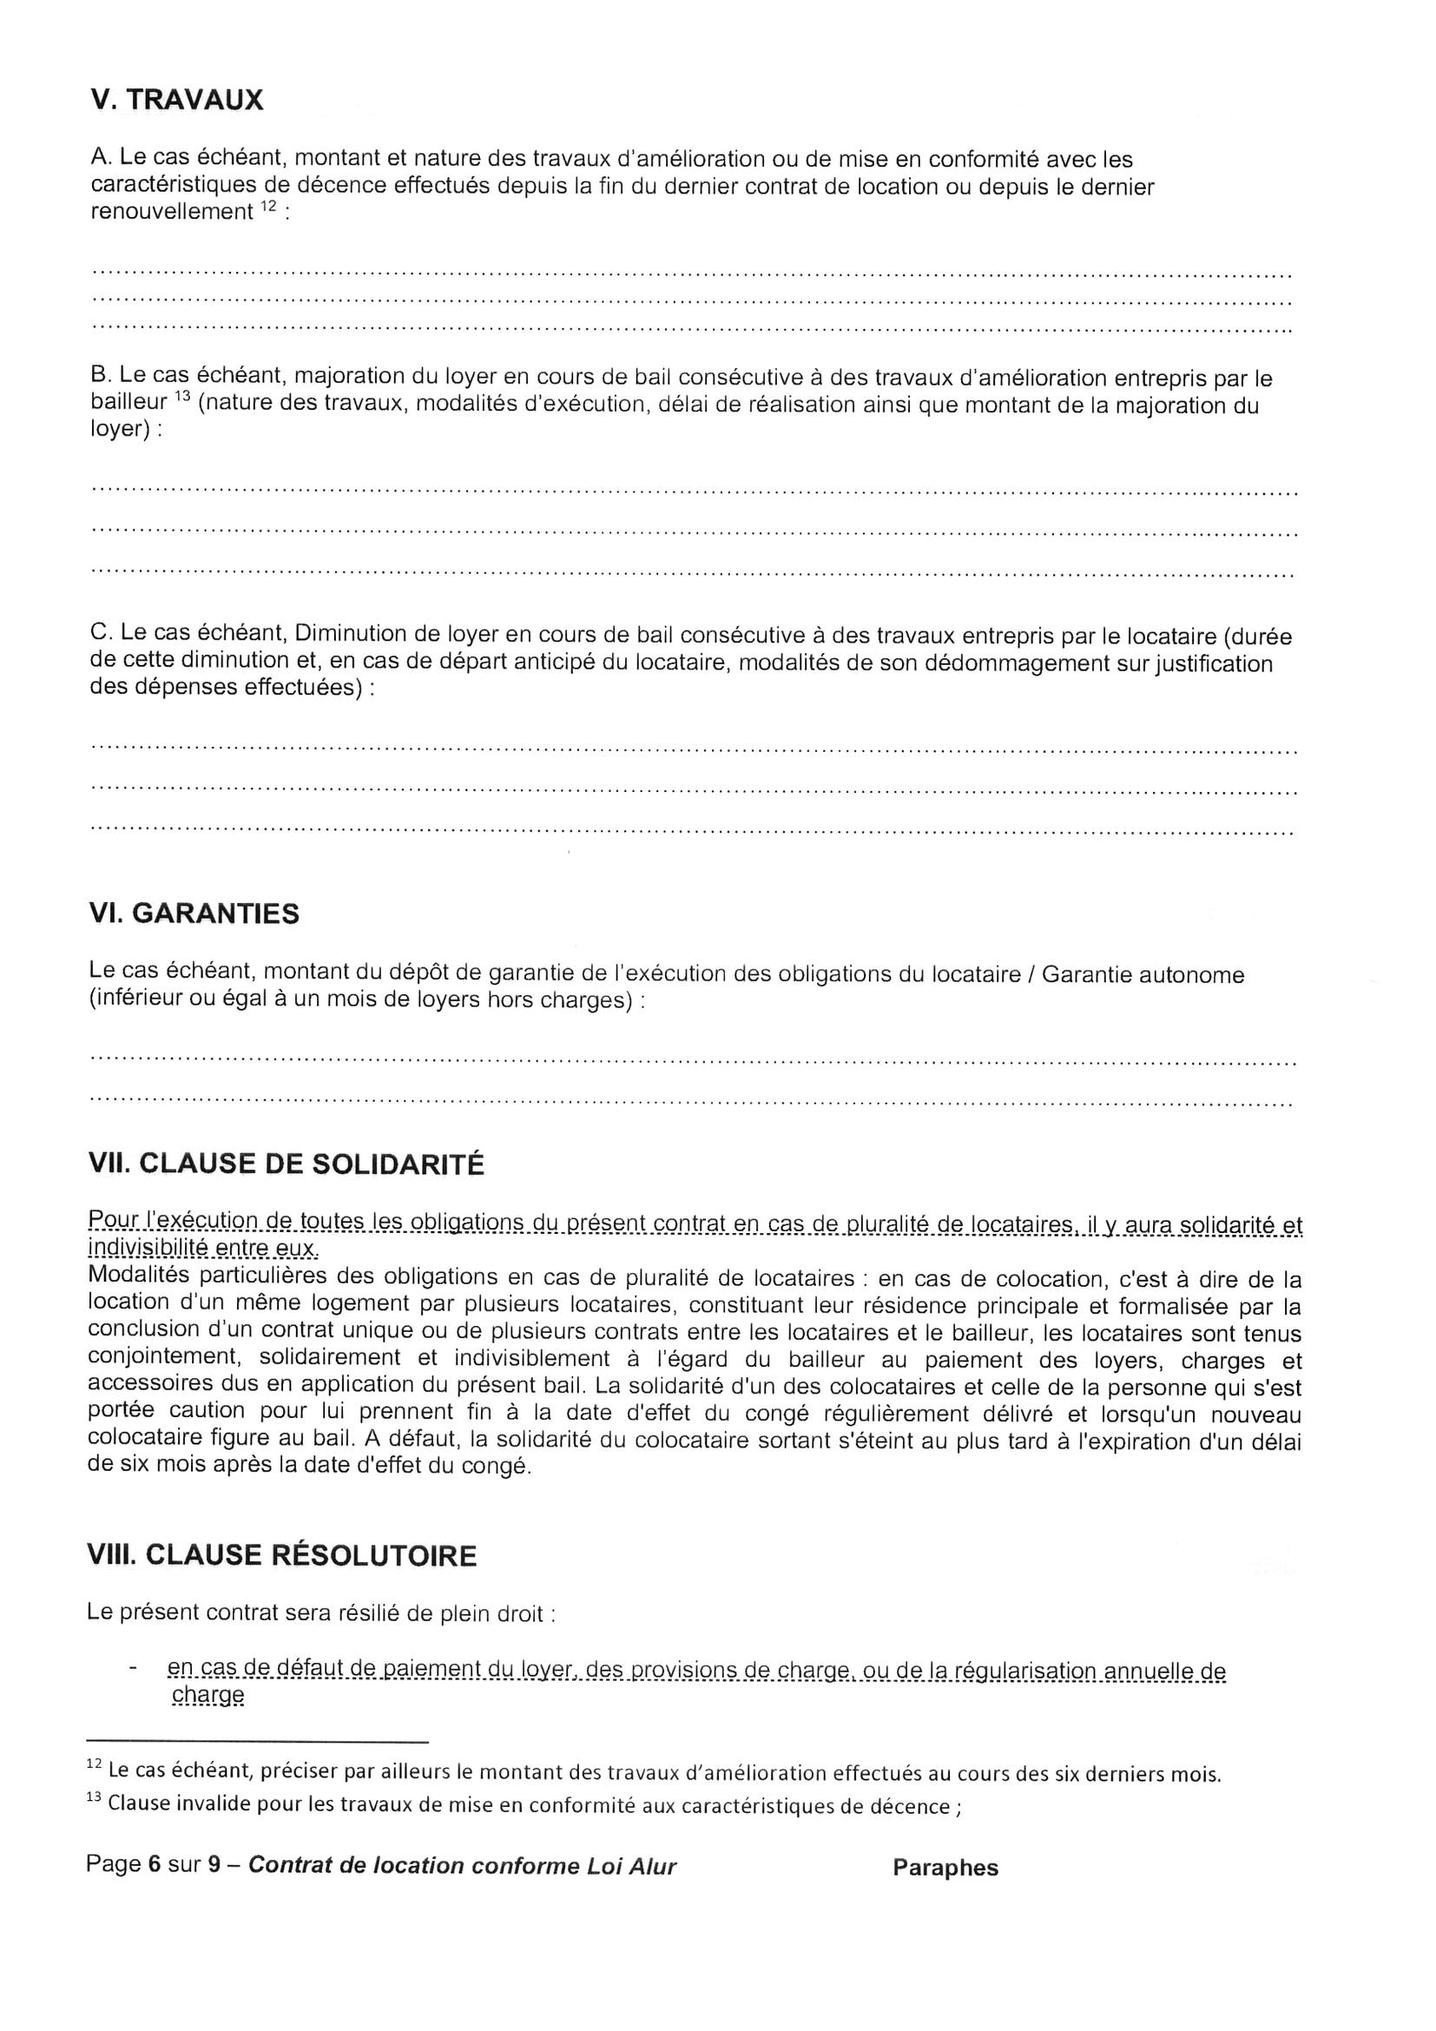
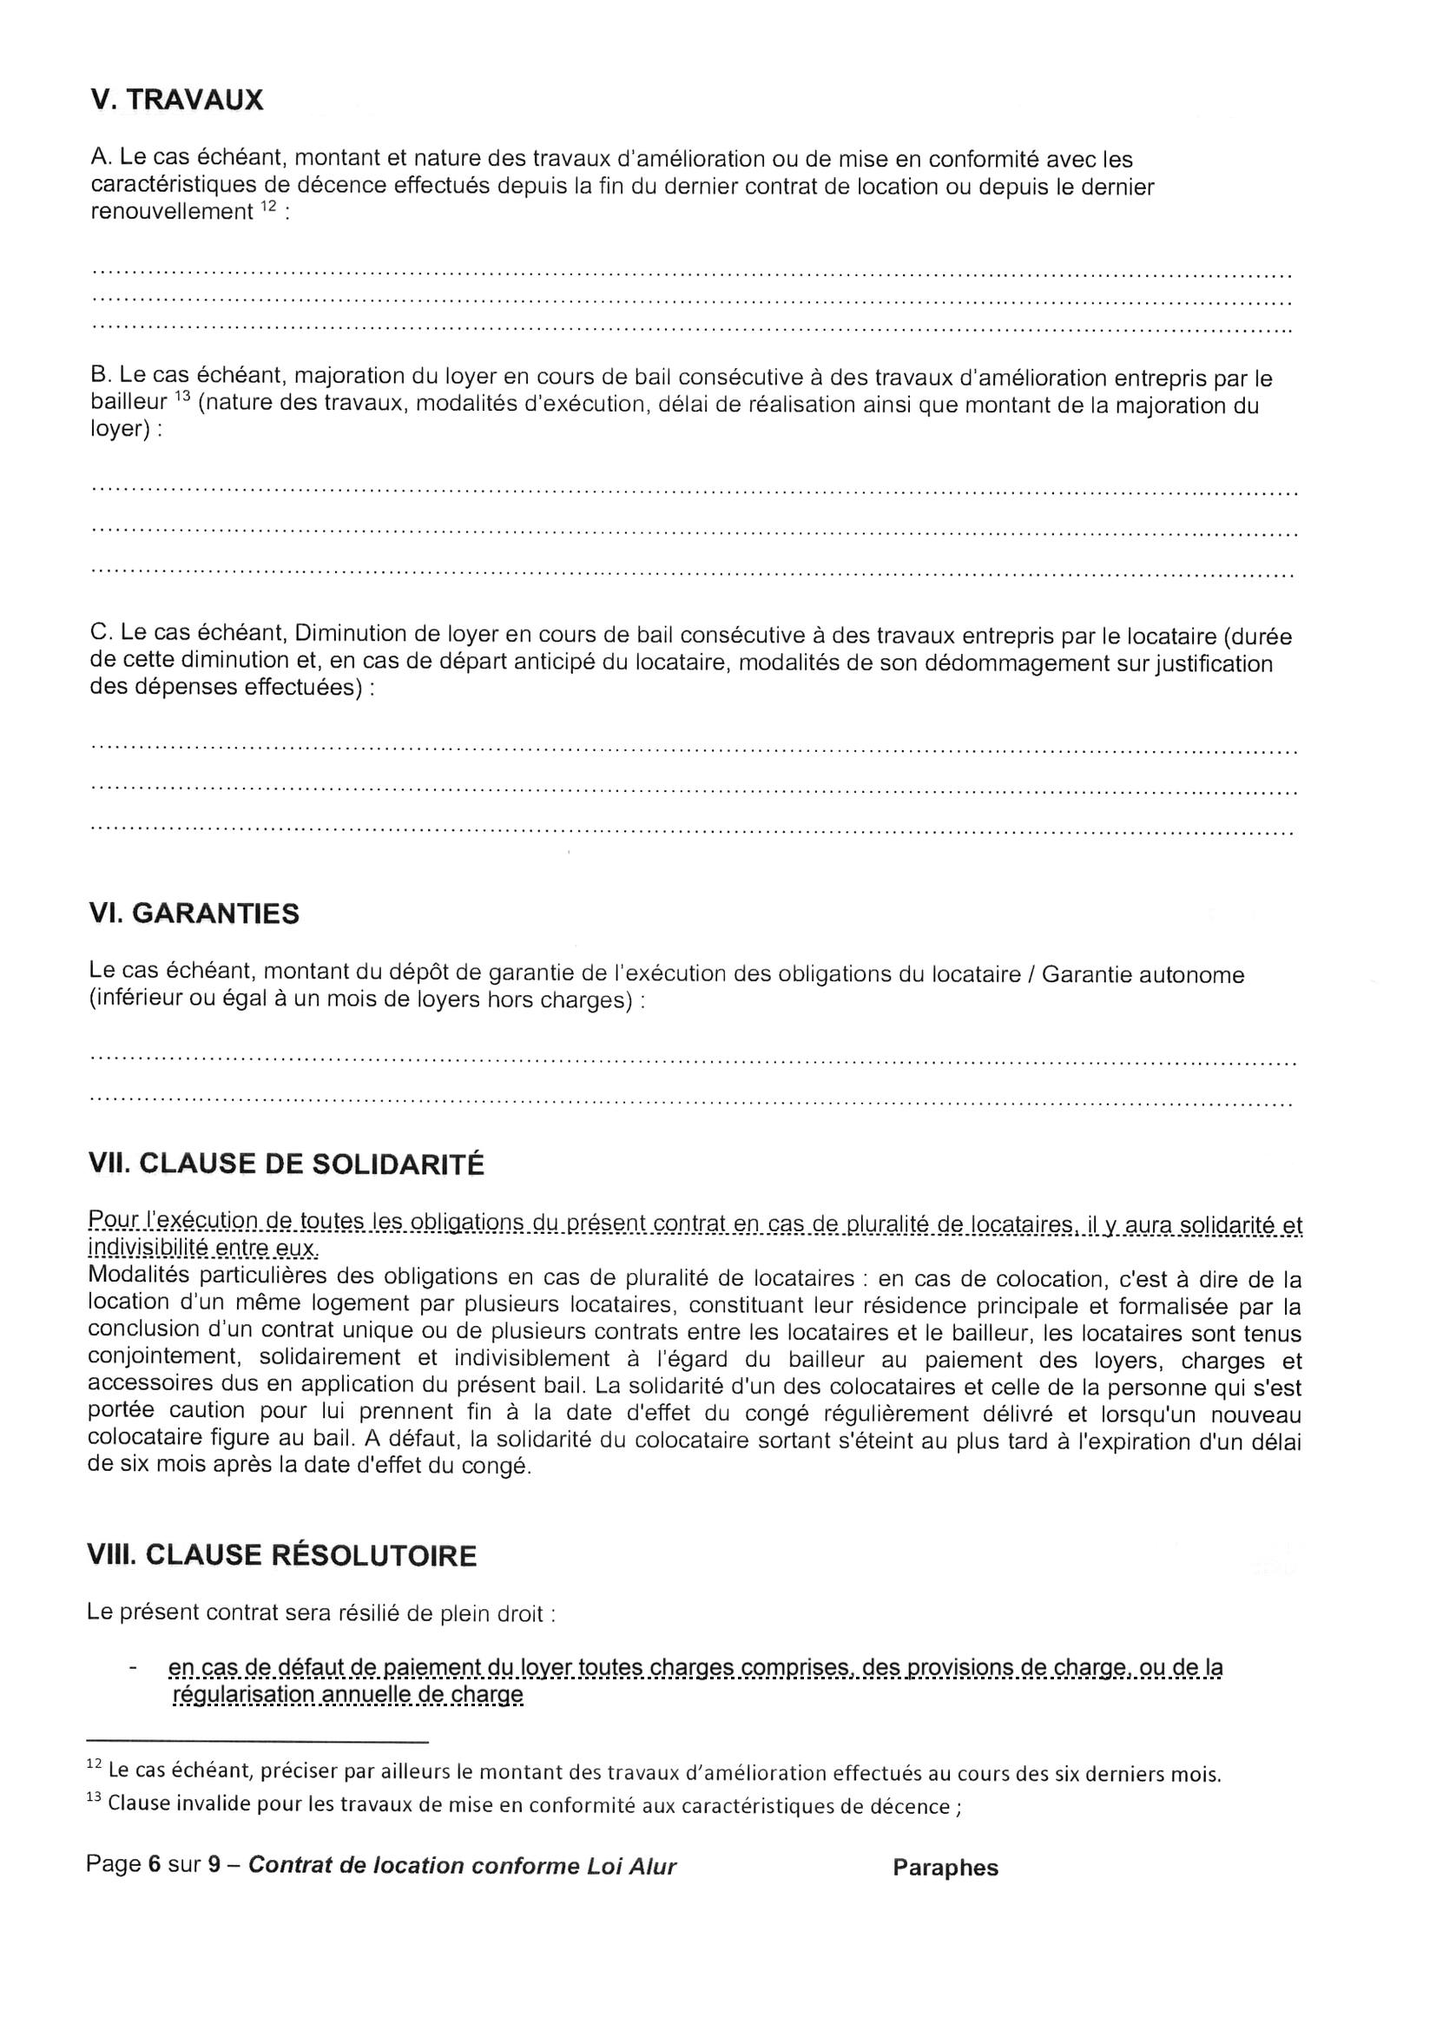
Bloc locataire réécrit, charges sans case cochée, clause résolutoire précisée

Changed region(s): [[0.1233, 0.8115, 0.8634, 0.8427]]

diff --git a/js/app.js b/js/app.js
@@ -94,12 +94,37 @@ function erreur(champ, texte) {
   return null;
 }
 
+/** « 12/03/2001 », « 12 03 2001 » ou « 12032001 » → « 12/03/2001 » ; null si la date n'existe pas ou est à venir. */
+function lireDateNaissance(s) {
+  const m = s.match(/^(\d{1,2})\D+(\d{1,2})\D+(\d{4})$/) || s.match(/^(\d{2})(\d{2})(\d{4})$/);
+  if (!m) return null;
+  const [j, mois, a] = [Number(m[1]), Number(m[2]), Number(m[3])];
+  const d = new Date(a, mois - 1, j);
+  if (d.getDate() !== j || d.getMonth() !== mois - 1 || a < 1900 || d > new Date()) return null;
+  return `${String(j).padStart(2, "0")}/${String(mois).padStart(2, "0")}/${a}`;
+}
+
+/** Un numéro français est présenté par paires ; un numéro étranger reste tel que saisi. */
+function lireTelephone(s) {
+  const chiffres = s.replace(/\D/g, "");
+  if (!/^[+0-9 .()-]+$/.test(s) || chiffres.length < 8 || chiffres.length > 15) return null;
+  return /^0\d{9}$/.test(chiffres) && !s.startsWith("+") ? chiffres.replace(/(\d{2})(?=\d)/g, "$1 ") : s;
+}
+
 function lireFormulaire() {
   document.querySelectorAll(".invalide").forEach((e) => e.classList.remove("invalide"));
   const v = (id) => $(id).value.trim();
   if (!v("c-prenom")) return erreur($("c-prenom"), "Il manque le prénom du locataire.");
   if (!v("c-nom")) return erreur($("c-nom"), "Il manque le nom du locataire.");
-  if (v("c-email") && !/^\S+@\S+\.\S+$/.test(v("c-email"))) return erreur($("c-email"), "L'adresse e-mail semble incomplète. Corrigez-la ou laissez la case vide.");
+  if (!v("c-naissance")) return erreur($("c-naissance"), "Il manque la date de naissance du locataire.");
+  const dateNaissance = lireDateNaissance(v("c-naissance"));
+  if (!dateNaissance) return erreur($("c-naissance"), "La date de naissance n'est pas lisible. Exemple : 12/03/2001");
+  if (!v("c-lieu")) return erreur($("c-lieu"), "Il manque le lieu de naissance du locataire.");
+  if (!v("c-tel")) return erreur($("c-tel"), "Il manque le téléphone du locataire.");
+  const telephone = lireTelephone(v("c-tel"));
+  if (!telephone) return erreur($("c-tel"), "Le téléphone n'est pas lisible. Exemple : 06 12 34 56 78");
+  if (!v("c-email")) return erreur($("c-email"), "Il manque l'e-mail du locataire.");
+  if (!/^\S+@\S+\.\S+$/.test(v("c-email"))) return erreur($("c-email"), "L'adresse e-mail semble incomplète. Vérifiez-la.");
   if (garantOui() && !v("c-garant-nom")) return erreur($("c-garant-nom"), "Il manque le nom du garant.");
   if (garantOui() && !v("c-garant-adresse")) return erreur($("c-garant-adresse"), "Il manque l'adresse du garant (numéro et rue).");
   if (garantOui() && !v("c-garant-cp")) return erreur($("c-garant-cp"), "Il manque le code postal du garant.");
@@ -115,6 +140,9 @@ function lireFormulaire() {
     logement: LOGEMENTS[code],
     prenom: v("c-prenom"),
     nom: v("c-nom"),
+    dateNaissance,
+    lieuNaissance: v("c-lieu"),
+    telephone,
     email: v("c-email"),
     garantNom: garantOui() ? v("c-garant-nom") : "",
     garantAdresse: garantOui() ? `${v("c-garant-adresse")}, ${v("c-garant-cp")} ${v("c-garant-ville")}` : "",

diff --git a/js/pdf.js b/js/pdf.js
@@ -1,7 +1,7 @@
 // Fabrique le bail (9 pages A4) : l'image de chaque page vierge + le texte et les croix.
 // Tout est synchrone une fois les images chargées : indispensable pour le menu Partager d'iOS.
 import { BAILLEUR, CLAUSES } from "./config.js";
-import { CASES, CASES_COMMUNES, EFFACER, LIGNES, PARAPHE, PARAPHES, SIGNATURE, TRAITS } from "./gabarit.js";
+import { CASES, CASES_COMMUNES, EFFACER, LIGNES, LOCATAIRE, PARAPHE, PARAPHES, SIGNATURE, TRAITS } from "./gabarit.js";
 import { montantEnLettres } from "./montant.js";
 
 export const NB_PAGES = 9;
@@ -9,6 +9,7 @@ const MM_PAR_PX = 210 / 1654;
 const mm = (px) => px * MM_PAR_PX;
 const ENCRE = [0, 0, 0];
 const TAILLE = 11, TAILLE_MIN = 6.5;
+const TAILLE_IMPRIME = 9.75; // taille du texte imprimé sur le modèle
 
 export const URL_SIGNATURE = "assets/signature.png";
 export const URL_PARAPHE = "assets/paraphe.png";
@@ -131,6 +132,24 @@ function ecrireBloc(doc, lignes, texte) {
   });
 }
 
+/** Le bloc locataire, écrit comme le texte imprimé ; une seule taille pour les quatre lignes. */
+function ecrireLocataire(doc, lignes) {
+  const { p, xTiret, xTexte, xmax, y } = LOCATAIRE;
+  const textes = lignes.map(textePDF);
+  const dispo = mm(xmax - xTexte);
+  doc.setPage(p);
+  let z = TAILLE_IMPRIME;
+  doc.setFontSize(z);
+  while (Math.max(...textes.map((t) => doc.getTextWidth(t))) > dispo && z > TAILLE_MIN) {
+    z -= 0.25;
+    doc.setFontSize(z);
+  }
+  textes.forEach((t, i) => {
+    poserTexte(doc, p, "-", mm(xTiret), mm(y[i]));
+    poserTexte(doc, p, t, mm(xTexte), mm(y[i]));
+  });
+}
+
 function cocher(doc, nom) {
   const c = CASES[nom];
   if (!c) throw new Error("case inconnue : " + nom);
@@ -156,7 +175,7 @@ export function nomFichier(b) {
   return `Bail_${b.code}_${propre(b.prenom)}_${propre(b.nom)}.pdf`;
 }
 
-/** b : { code, logement, prenom, nom, email, garantNom, garantAdresse, dateEffet, duree, cave, loyer, charges, dateSignature } */
+/** b : { code, logement, prenom, nom, dateNaissance, lieuNaissance, telephone, email, garantNom, garantAdresse, dateEffet, duree, cave, loyer, charges, dateSignature } */
 export function construirePDF(b) {
   if (!images) throw new Error("pages non chargées");
   journal = [];
@@ -182,7 +201,12 @@ export function construirePDF(b) {
   ecrire(doc, LIGNES.email, BAILLEUR.email);
 
   // Locataire et garant
-  ecrireBloc(doc, LIGNES.locataire, b.email ? `${nomComplet} — ${b.email}` : nomComplet);
+  ecrireLocataire(doc, [
+    `Nom et prénom du locataire : ${nomComplet}`,
+    `Date et lieu de naissance : ${b.dateNaissance} à ${b.lieuNaissance}`,
+    `Téléphone : ${b.telephone}`,
+    `Adresse e-mail : ${b.email}`,
+  ]);
   if (b.garantNom) ecrireBloc(doc, LIGNES.garant, `${b.garantNom} — ${b.garantAdresse}`);
 
   // Logement

diff --git a/index.html b/index.html
@@ -41,7 +41,14 @@
         <div class="champ"><label for="c-prenom">Prénom</label><input id="c-prenom" type="text" autocomplete="off" autocapitalize="words"></div>
         <div class="champ"><label for="c-nom">Nom</label><input id="c-nom" type="text" autocomplete="off" autocapitalize="words"></div>
       </div>
-      <div class="champ"><label for="c-email">E-mail (si vous l'avez)</label><input id="c-email" type="email" autocomplete="off" autocapitalize="none" inputmode="email"></div>
+      <div class="grille2">
+        <div class="champ"><label for="c-naissance">Date de naissance (ex. 12/03/2001)</label><input id="c-naissance" type="text" inputmode="numeric" autocomplete="off" maxlength="10"></div>
+        <div class="champ"><label for="c-lieu">Lieu de naissance</label><input id="c-lieu" type="text" autocomplete="off" autocapitalize="words"></div>
+      </div>
+      <div class="grille2">
+        <div class="champ"><label for="c-tel">Téléphone</label><input id="c-tel" type="tel" inputmode="tel" autocomplete="off"></div>
+        <div class="champ"><label for="c-email">E-mail</label><input id="c-email" type="email" autocomplete="off" autocapitalize="none" inputmode="email"></div>
+      </div>
       <p class="question">Y a-t-il un garant ?</p>
       <div class="deux-choix" id="garant">
         <button type="button" class="choix-simple choisi" id="garant-non" aria-pressed="true">Non</button>

diff --git a/js/gabarit.js b/js/gabarit.js
@@ -4,6 +4,9 @@
 // Une ligne de texte : page, x de départ, y du pointillé, x maximum.
 const L = (p, x, y, xmax = 1490) => ({ p, x, y, xmax });
 
+// Bloc locataire (page 2) : le modèle est vierge à cet endroit, tout est écrit à la taille du texte imprimé.
+export const LOCATAIRE = { p: 2, xTiret: 151, xTexte: 198, xmax: 1490, y: [509, 543, 577, 611] };
+
 export const LIGNES = {
   bailleurNom: L(1, 225, 1254),
   denomination: L(1, 225, 1349),
@@ -12,7 +15,6 @@ export const LIGNES = {
   email: L(1, 225, 1667),
 
   garant: [L(2, 210, 446, 1480), L(2, 210, 477, 1480)],
-  locataire: [L(2, 210, 541, 1480), L(2, 210, 571, 1480)],
   localisation: [L(2, 115, 1243, 1480), L(2, 115, 1336, 1480)],
   surface: L(2, 445, 1722, 522),
   pieces: L(2, 590, 1786, 660),
@@ -98,7 +100,7 @@ export const CASES = {
 // Cases cochées pour tous les logements (reprises du bail pré-rempli).
 export const CASES_COMMUNES = [
   "bailleur.morale", "societe-familiale.oui", "mandataire.non", "usage.habitation",
-  "relocation.oui", "reference.non", "charges.forfait", "assurance.non", "paiement.echoir",
+  "relocation.oui", "reference.non", "assurance.non", "paiement.echoir",
 ];
 
 // Rubriques sans objet, barrées comme sur le bail pré-rempli : page, x0, y0, x1, y1.

diff --git a/js/config.js b/js/config.js
@@ -3,7 +3,7 @@
 //  pour changer le bailleur, les clauses ou ajouter un logement.
 // ============================================================
 
-export const APP_VERSION = "1.2.0";
+export const APP_VERSION = "1.3.0";
 
 export const BAILLEUR = {
   nomPrenom: "CRESP Annie",
@@ -17,7 +17,7 @@ export const BAILLEUR = {
 export const CLAUSES = {
   revision: "1er septembre",
   irl: "1er trimestre",
-  revisionForfait: "1er septembre de chaque année",
+  revisionForfait: "Réactualisé avec le loyer",
   periodicite: "mensuel",
   jourPaiement: "1er",
   lieuPaiement: "par virement bancaire",

diff --git a/tests/test_bail.py b/tests/test_bail.py
@@ -9,7 +9,9 @@ import threading
 from pathlib import Path
 
 import fitz
+import numpy as np
 import pytest
+from PIL import Image
 from playwright.sync_api import sync_playwright
 
 RACINE = Path(__file__).resolve().parent.parent
@@ -57,6 +59,8 @@ def remplir(p, prenom="Julie", nom="Martin", effet="2026-09-01", code="MD2", **a
     p.fill("#c-prenom", prenom)
     p.fill("#c-nom", nom)
     p.fill("#c-effet", effet)
+    for champ, defaut in [("naissance", "12/03/2001"), ("lieu", "Nîmes"), ("tel", "0612345678"), ("email", "julie@example.com")]:
+        autres.setdefault(champ, defaut)
     for champ, valeur in autres.items():
         p.fill(f"#c-{champ}", valeur)
 
@@ -127,12 +131,13 @@ def test_bail_complet(page):
     t = tout_texte(doc)
     for attendu in [
         "CRESP Annie", "SCI CBI", "60 rue Dora Maar", "locationslogements34@gmail.com",
-        "Julie MARTIN — julie@example.com",
+        "Nom et prénom du locataire : Julie MARTIN", "Date et lieu de naissance : 12/03/2001 à Nîmes",
+        "Téléphone : 06 12 34 56 78", "Adresse e-mail : julie@example.com",
         "11 rue Guillaume d'Autignac — Bâtiment C9", "2e étage — 34070 Montpellier",
         "Cellier privé", "Cuisine équipée", "01/09/2026", "1 an",
         "380 € + 70 € de charges = 450 €", "380 € (trois cent quatre-vingts euros)",
         "quatre cent cinquante euros", "soixante-dix euros",
-        "1er septembre de chaque année", "par virement bancaire",
+        "Réactualisé avec le loyer", "par virement bancaire",
         "Dépôt d'1 mois de loyer (encaissé)", "Toutes fêtes interdites", "Montpellier",
     ]:
         assert attendu in t, attendu
@@ -281,6 +286,49 @@ def test_pas_d_encadre_a_joindre(page):
     assert "À joindre" not in texte and "DPE" not in texte
     assert page.is_visible("#btn-nouveau")
     page.screenshot(path=str(SORTIE / "apres_enregistrement.png"))
+
+
+@pytest.mark.parametrize("champ,valeur,attendu", [
+    ("naissance", "", "date de naissance"), ("naissance", "31/02/2001", "pas lisible"),
+    ("naissance", "12/03/2999", "pas lisible"), ("lieu", "", "lieu de naissance"),
+    ("tel", "", "téléphone"), ("tel", "appeler", "pas lisible"),
+    ("email", "", "e-mail"), ("email", "julie", "incomplète"),
+])
+def test_coordonnees_du_locataire_exigees(page, champ, valeur, attendu):
+    remplir(page, **{champ: valeur})
+    page.click("#btn-apercu")
+    assert page.is_hidden("#apercu")
+    assert attendu in page.inner_text("#message")
+    assert "invalide" in page.get_attribute(f"#c-{champ}", "class")
+
+
+def test_date_de_naissance_sans_barres(page):
+    remplir(page, naissance="12032001", tel="+32 470 12 34 56")
+    _, doc, _ = telecharger(page, "bail_coordonnees.pdf")
+    t = doc[1].get_text()
+    assert "12/03/2001 à Nîmes" in t and "+32 470 12 34 56" in t
+
+
+def test_ancien_bloc_locataire_retire_du_modele():
+    im = np.asarray(Image.open(RACINE / "assets/pages/page2.jpg").convert("L"))
+    assert (im[484:580, 140:1500] < 140).sum() == 0, "ancien libellé ou pointillés encore présents"
+    assert (im[642:678, 100:1500] < 140).sum() > 500, "« Désigné » n'a pas été descendu"
+
+
+def test_clause_resolutoire_reecrite_dans_le_modele():
+    im = np.asarray(Image.open(RACINE / "assets/pages/page6.jpg").convert("L"))
+    # L'ancienne deuxième ligne ne contenait que « charge » ; la nouvelle va bien au-delà.
+    assert (im[1940:1960, 400:560] < 140).sum() > 200
+    # Rien ne dépasse à droite ni ne touche le trait des notes.
+    assert (im[1905:1975, 1440:1500] < 140).sum() == 0
+
+
+def test_mode_de_charges_non_coche(page):
+    remplir(page)
+    _, doc, _ = telecharger(page, "bail_charges.pdf")
+    echelle = 595.28 / 1654
+    case = fitz.Rect(106, 1351, 139, 1383) * fitz.Matrix(echelle, echelle)
+    assert not [d for d in doc[3].get_drawings() if d["rect"].intersects(case)]
 
 
 def test_garant_abandonne_non_imprime(page):

diff --git a/tools/preparer_pages.py b/tools/preparer_pages.py
@@ -1,16 +1,17 @@
 #!/usr/bin/env python3
 """Prépare les 9 pages du bail vierge : A4 200 dpi, fond blanc, essais de frappe retirés.
 
-Usage : .venv/bin/python tools/preparer_pages.py <dossier du bail vierge>
+Usage : .venv/bin/python tools/preparer_pages.py "<…>/Base Baux/bail vierge coloc bis/bail vierge 1"
 Écrit assets/pages/page1.jpg … page9.jpg (niveaux de gris).
 """
 import io
+import math
 import sys
 from pathlib import Path
 
 import fitz
 import numpy as np
-from PIL import Image
+from PIL import Image, ImageDraw, ImageFilter, ImageFont
 
 LARGEUR, HAUTEUR = 1654, 2339  # A4 à 200 dpi
 RACINE = Path(__file__).resolve().parent.parent
@@ -27,6 +28,23 @@ ESSAIS = [
     (4, 826, 1095, 902, 1131, -186), # « Texte »
     (3, 1160, 2125, 1560, 2265, 0),  # signature restée dans les paraphes
     (3, 1145, 2172, 1160, 2265, 0),
+    (2, 140, 484, 1500, 580, 0),     # bloc locataire : réécrit en entier par js/pdf.js (LOCATAIRE)
+]
+
+# Lignes à descendre pour faire de la place : (page, x0, y0, x1, y1, décalage_y).
+DEPLACEMENTS = [
+    (2, 100, 608, 1500, 644, 34),    # « Désigné (s) ci-après le locataire », sous le bloc locataire agrandi
+]
+
+# Texte imprimé du modèle à remplacer, soulignement pointillé compris :
+# (page, (x0, y0, x1, y1) à blanchir, [(x, ligne de base, texte), …]).
+POLICE = "/System/Library/Fonts/Supplemental/Arial.ttf"
+TAILLE_PX = 27.3  # taille mesurée sur le scan
+REECRITURES = [
+    (6, (190, 1907, 1500, 1970), [  # clause résolutoire : défaut de paiement
+        (194, 1929, "en cas de défaut de paiement du loyer toutes charges comprises, des provisions de charge, ou de la"),
+        (199, 1960, "régularisation annuelle de charge"),
+    ]),
 ]
 
 
@@ -69,6 +87,31 @@ def effacer(page: np.ndarray, n: int) -> None:
             page[y0:y1, x0:x1] = page[y0:y1, x0 + dx:x1 + dx]
         else:
             page[y0:y1, x0:x1] = 255
+    for p, x0, y0, x1, y1, dy in DEPLACEMENTS:
+        if p != n:
+            continue
+        morceau = page[y0:y1, x0:x1].copy()
+        page[y0:y1, x0:x1] = 255
+        page[y0 + dy:y1 + dy, x0:x1] = morceau
+    for p, (x0, y0, x1, y1), lignes in REECRITURES:
+        if p != n:
+            continue
+        page[y0:y1, x0:x1] = 255
+        for x, base, texte in lignes:
+            imprimer(page, x, base, texte)
+
+
+def imprimer(page: np.ndarray, x: int, base: int, texte: str) -> None:
+    """Écrit une ligne comme sur le scan : Arial légèrement adouci, pointillés 4 px / 4 px sous le texte."""
+    zoom = 4
+    police = ImageFont.truetype(POLICE, round(TAILLE_PX * zoom))
+    largeur, hauteur, ligne = math.ceil(police.getlength(texte) / zoom), 50, 36
+    grand = Image.new("L", (largeur * zoom, hauteur * zoom), 255)
+    ImageDraw.Draw(grand).text((0, ligne * zoom), texte, font=police, fill=0, anchor="ls")
+    a = np.asarray(grand.resize((largeur, hauteur), Image.LANCZOS).filter(ImageFilter.GaussianBlur(0.5))).copy()
+    a[ligne + 2:ligne + 5, np.arange(largeur) % 8 < 4] = 0
+    y = base - ligne
+    page[y:y + hauteur, x:x + largeur] = np.minimum(page[y:y + hauteur, x:x + largeur], a)
 
 
 def bords_blancs(page: np.ndarray) -> None:
